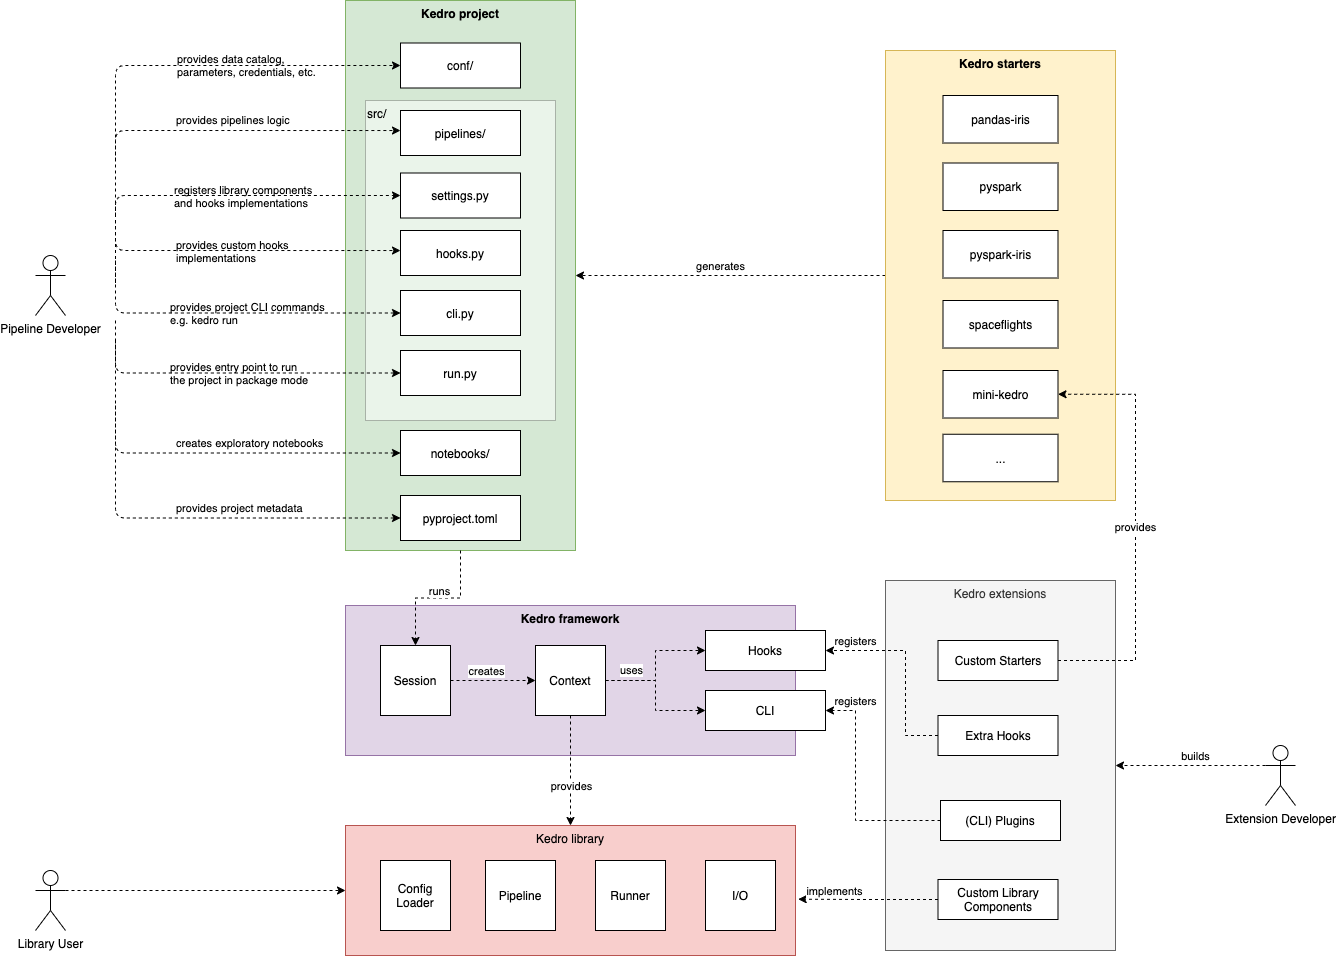
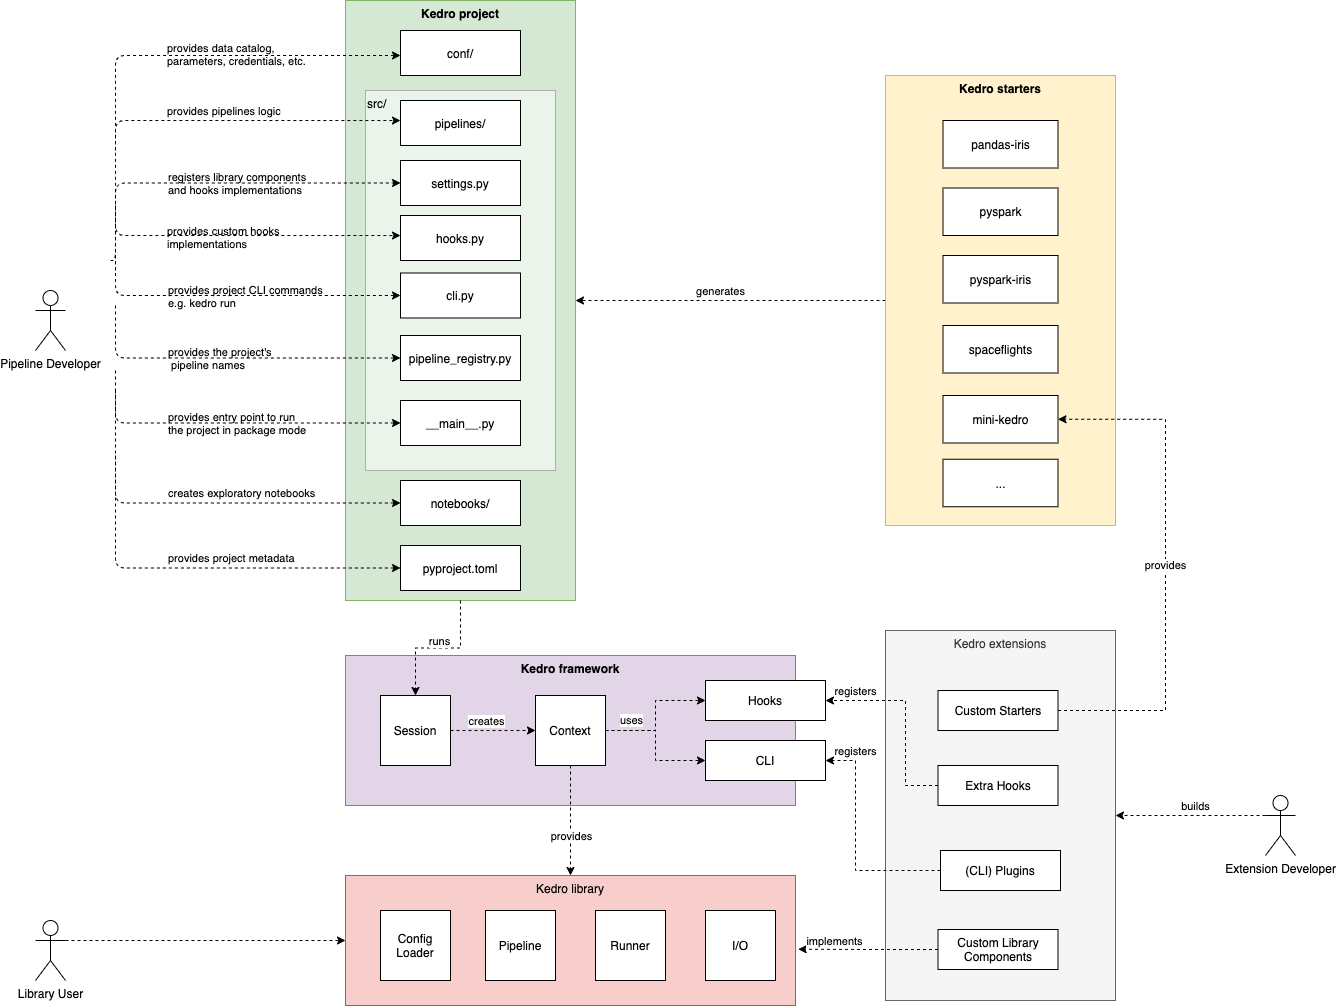
[KED-2634] Update architecture diagram (#1177)

diff --git a/docs/source/12_faq/02_architecture_overview.md b/docs/source/12_faq/02_architecture_overview.md
@@ -1,7 +1,7 @@
 # Kedro architecture overview
 
 ```eval_rst
-.. note::  This documentation is based on ``Kedro 0.17.1``. If you spot anything that is incorrect then please create an `issue <https://github.com/quantumblacklabs/kedro/issues>`_ or pull request.
+.. note::  This documentation is based on ``Kedro 0.17.4``. If you spot anything that is incorrect then please create an `issue <https://github.com/quantumblacklabs/kedro/issues>`_ or pull request.
 ```
 
 ![Kedro architecture diagram](../meta/images/kedro_architecture.png)
@@ -18,7 +18,8 @@ As a data pipeline developer, you will interact with a Kedro project, which cons
   * **`settings.py`** file contains the settings for the project, such as library component registration, custom hooks registration, etc.
   * **`hooks.py`**, which contains custom [Hooks implementations](../07_extend_kedro/02_hooks) in the project, including both registration hooks and extension hooks.
   * **`cli.py`** file contains project specific CLI commands (e.g., `kedro run`, `kedro test`, etc.).
-  * **`run.py`** file serves as the main entry point of the project in [package mode](../03_tutorial/05_package_a_project.md#package-your-project).
+  * **`pipeline_registry.py`** file defines the project pipelines, i.e. pipelines that can be run using `kedro run --pipeline`.
+  * **`__main__.py`** file serves as the main entry point of the project in [package mode](../03_tutorial/05_package_a_project.md#package-your-project).
 * **`pyproject.toml`** identifies the project root by providing project metadata, including:
   * `package_name`: A valid Python package name for your project package
   * `project_name`: A human readable name for your project
